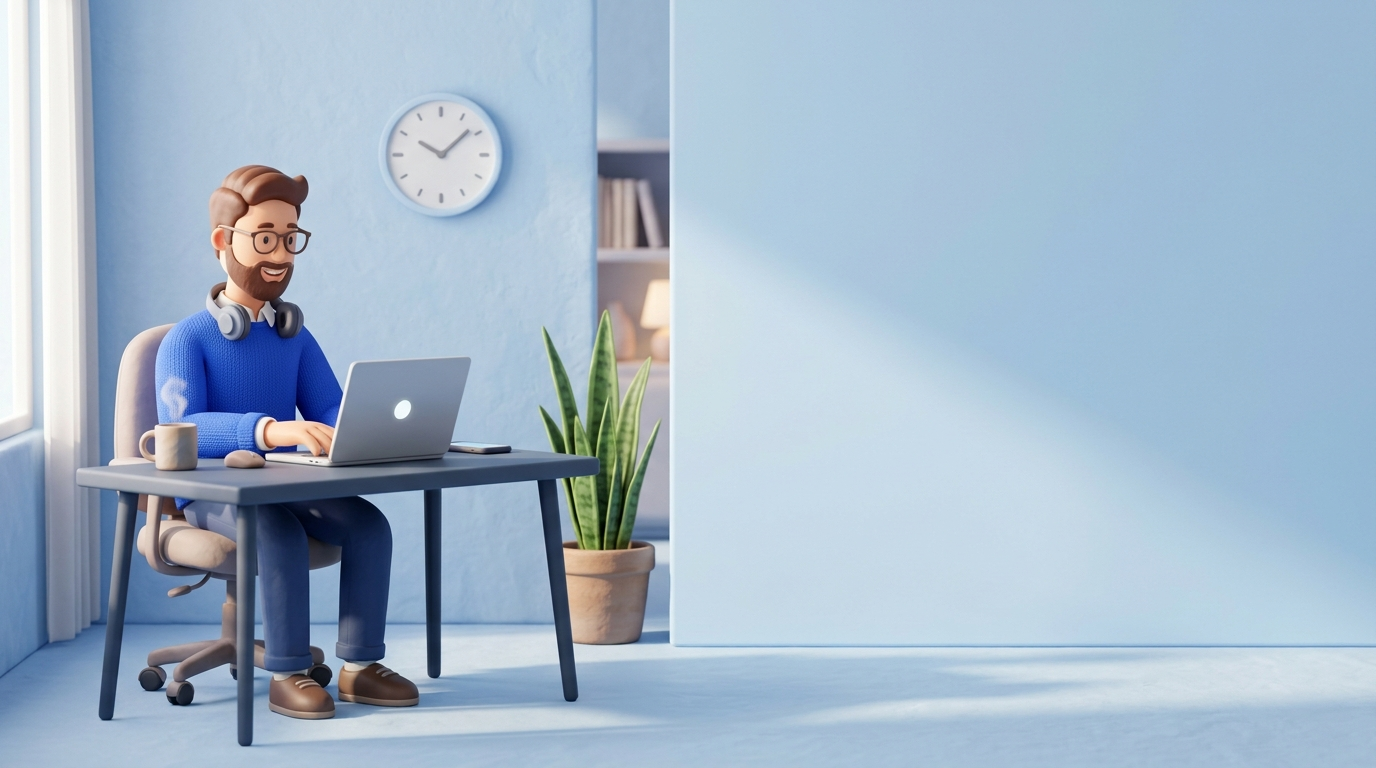
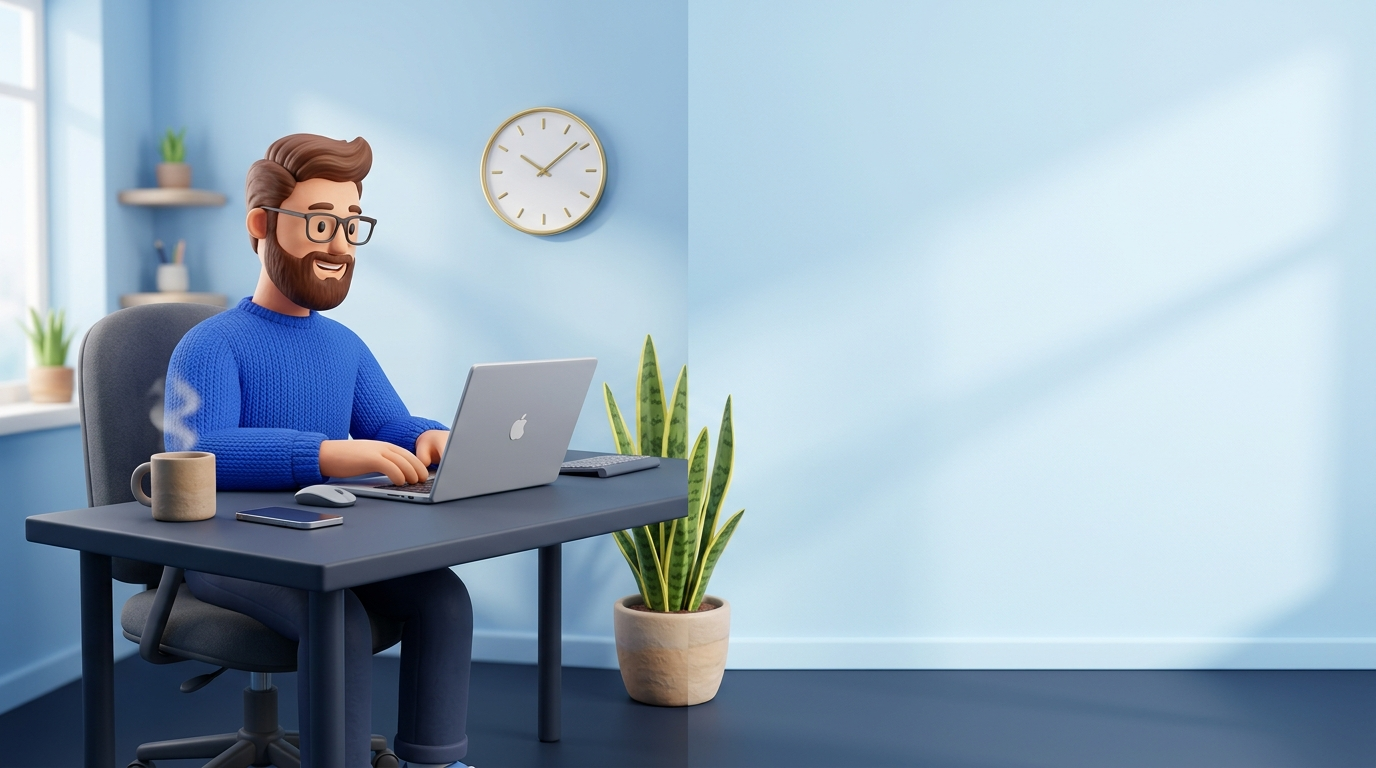
Upgrade Login page to full-screen ultra-HQ 3D background with floating card structure

diff --git a/src/app/login/page.tsx b/src/app/login/page.tsx
@@ -69,160 +69,153 @@ export default function LoginPage() {
   };
 
   return (
-    <main className="min-h-screen w-full bg-[#d6e5f7] dark:bg-slate-950 flex items-center justify-center p-3 sm:p-6 lg:p-10 font-sans">
-      {/* Outer Tablet Frame Matching Exact Reference UI/UX */}
-      <div className="relative w-full max-w-6xl bg-[#1a2333] p-3 sm:p-4 md:p-5 rounded-[36px] sm:rounded-[48px] shadow-[0_30px_90px_-15px_rgba(15,23,42,0.4)] border border-slate-700/60 overflow-hidden">
+    <main className="min-h-screen w-full relative overflow-hidden bg-[#9ec4e8] dark:bg-slate-950 flex items-center justify-center lg:justify-end p-4 sm:p-6 lg:p-12 xl:pr-24 font-sans">
+      {/* Full-Screen 3D Workspace Scene (No artificial frames or black bezels) */}
+      <div className="absolute inset-0 z-0">
+        <Image 
+          src="/login_scene_bg.jpg" 
+          alt="Support Workspace Scene" 
+          fill
+          priority
+          className="object-cover object-left md:object-center select-none pointer-events-none"
+          sizes="100vw"
+        />
+        {/* Soft Mobile Darkening Overlay to ensure text readability */}
+        <div className="absolute inset-0 bg-slate-900/30 backdrop-blur-[2px] lg:hidden pointer-events-none" />
+      </div>
+
+      {/* Floating White Login Card (Exact UI Structure & Styling matching Reference Design) */}
+      <div className="relative z-10 w-full max-w-[430px] bg-white/95 dark:bg-slate-900/95 backdrop-blur-2xl rounded-[36px] sm:rounded-[44px] p-8 sm:p-11 shadow-[0_25px_70px_rgba(15,23,42,0.22)] border border-white/80 dark:border-slate-800/90 flex flex-col justify-between animate-in fade-in zoom-in-95 duration-300">
         
-        {/* Full Display Screen Canvas */}
-        <div className="relative w-full min-h-[580px] sm:min-h-[640px] lg:min-h-[680px] rounded-[28px] sm:rounded-[40px] overflow-hidden shadow-inner flex items-center justify-center lg:justify-end p-4 sm:p-8 lg:p-12">
-          
-          {/* Full Screen 3D Workspace Scene Background */}
-          <Image 
-            src="/login_scene_bg.jpg" 
-            alt="Support Specialist Workspace Scene" 
-            fill
-            priority
-            className="object-cover object-left md:object-center select-none pointer-events-none"
-            sizes="(max-width: 1280px) 100vw, 1200px"
-          />
-
-          {/* Subtle Ambient Vignette & Shadow Overlay */}
-          <div className="absolute inset-0 bg-gradient-to-t from-slate-900/20 via-transparent to-transparent lg:hidden pointer-events-none" />
-
-          {/* Floating Sign-In Card (Exact Replica of Reference Design with Blue Theme) */}
-          <div className="relative z-10 w-full max-w-[410px] bg-white/95 dark:bg-slate-900/95 backdrop-blur-2xl rounded-[32px] sm:rounded-[36px] p-7 sm:p-9 shadow-[0_25px_60px_-15px_rgba(15,23,42,0.3)] border border-white/60 dark:border-slate-800/80 flex flex-col justify-between animate-in fade-in zoom-in-95 duration-300">
-            
-            <div>
-              {/* Brand Logo Header */}
-              <div className="flex items-center justify-center gap-2 mb-6">
-                <div className="w-8 h-8 bg-blue-600 rounded-xl flex items-center justify-center shadow-md shadow-blue-500/25">
-                  <Ticket className="w-4.5 h-4.5 text-white" />
-                </div>
-                <span className="text-lg font-black text-slate-900 dark:text-white tracking-tight">
-                  HelpDesk
-                </span>
-              </div>
-
-              {/* Title & Subtitle */}
-              <div className="text-center space-y-1.5 mb-7">
-                <h1 className="text-2xl sm:text-3xl font-black text-slate-900 dark:text-white tracking-tight">
-                  Log in to account
-                </h1>
-                <p className="text-xs sm:text-sm text-slate-500 dark:text-slate-400 font-medium">
-                  Enter your credentials to access your support dashboard.
-                </p>
-              </div>
-
-              {/* Error Alert */}
-              {error && (
-                <div className="mb-5 p-3.5 bg-rose-50 dark:bg-rose-950/40 border border-rose-200 dark:border-rose-800/50 rounded-2xl flex items-start gap-3 animate-in fade-in duration-200">
-                  <AlertCircle className="w-4 h-4 text-rose-600 dark:text-rose-400 shrink-0 mt-0.5" />
-                  <p className="text-xs font-semibold text-rose-700 dark:text-rose-300 leading-relaxed">
-                    {error}
-                  </p>
-                </div>
-              )}
-
-              {/* Form Inputs */}
-              <form onSubmit={handleSubmit(onSubmit)} className="space-y-4" noValidate>
-                {/* Email Address Input */}
-                <div>
-                  <input
-                    id="email"
-                    type="email"
-                    {...register('email')}
-                    className={`w-full h-12 px-4 bg-slate-50/80 dark:bg-slate-800/60 border ${
-                      errors.email 
-                        ? 'border-rose-400 focus:ring-rose-500/20 focus:border-rose-500' 
-                        : 'border-slate-200 dark:border-slate-700/80 focus:ring-blue-600/20 focus:border-blue-600'
-                    } rounded-2xl text-sm font-medium focus:outline-none focus:ring-4 transition-all text-slate-900 dark:text-white placeholder:text-slate-400 shadow-sm`}
-                    placeholder="Email address"
-                  />
-                  {errors.email && (
-                    <p className="text-rose-500 text-[11px] font-bold mt-1.5 ml-2">{errors.email.message}</p>
-                  )}
-                </div>
-
-                {/* Password Input with Show/Hide Toggle */}
-                <div>
-                  <div className="relative">
-                    <input
-                      id="password"
-                      type={showPassword ? "text" : "password"}
-                      {...register('password')}
-                      className={`w-full h-12 pl-4 pr-11 bg-slate-50/80 dark:bg-slate-800/60 border ${
-                        errors.password 
-                          ? 'border-rose-400 focus:ring-rose-500/20 focus:border-rose-500' 
-                          : 'border-slate-200 dark:border-slate-700/80 focus:ring-blue-600/20 focus:border-blue-600'
-                      } rounded-2xl text-sm font-medium focus:outline-none focus:ring-4 transition-all text-slate-900 dark:text-white placeholder:text-slate-400 shadow-sm`}
-                      placeholder="Password"
-                    />
-                    <button
-                      type="button"
-                      onClick={() => setShowPassword(!showPassword)}
-                      className="absolute right-3.5 top-1/2 -translate-y-1/2 text-slate-400 hover:text-slate-600 dark:hover:text-slate-200 transition-colors p-1"
-                      aria-label={showPassword ? "Hide password" : "Show password"}
-                    >
-                      {showPassword ? <EyeOff className="w-4 h-4" /> : <Eye className="w-4 h-4" />}
-                    </button>
-                  </div>
-                  {errors.password && (
-                    <p className="text-rose-500 text-[11px] font-bold mt-1.5 ml-2">{errors.password.message}</p>
-                  )}
-                </div>
-
-                {/* Remember Me & Forgot Password Row */}
-                <div className="flex items-center justify-between pt-0.5 px-1 text-xs">
-                  <button 
-                    type="button"
-                    onClick={() => setValue('rememberMe', !rememberMe, { shouldValidate: true })}
-                    className="flex items-center gap-2 text-slate-600 dark:text-slate-400 hover:text-slate-900 dark:hover:text-slate-200 transition-colors select-none font-medium"
-                  >
-                    {rememberMe ? (
-                      <CheckSquare className="w-4 h-4 text-blue-600" />
-                    ) : (
-                      <Square className="w-4 h-4 text-slate-400" />
-                    )}
-                    <span>Remember me</span>
-                  </button>
-
-                  <Link 
-                    href="/forgot-password"
-                    className="font-bold text-blue-600 dark:text-blue-400 hover:underline transition-all"
-                  >
-                    Forgot password?
-                  </Link>
-                </div>
-
-                {/* Submit Action Button */}
-                <div className="pt-2">
-                  <button
-                    type="submit"
-                    disabled={isSubmitting}
-                    className="w-full h-12 bg-blue-600 hover:bg-blue-700 active:scale-[0.98] text-white rounded-2xl font-bold text-sm transition-all shadow-md shadow-blue-600/25 disabled:opacity-60 flex items-center justify-center gap-2 cursor-pointer"
-                  >
-                    {isSubmitting ? (
-                      <>
-                        <Loader2 className="w-4 h-4 animate-spin" />
-                        <span>Signing in...</span>
-                      </>
-                    ) : (
-                      <span>Log in</span>
-                    )}
-                  </button>
-                </div>
-              </form>
+        <div>
+          {/* Logo Header */}
+          <div className="flex items-center justify-center gap-2.5 mb-7">
+            <div className="w-8 h-8 bg-blue-600 rounded-xl flex items-center justify-center shadow-md shadow-blue-500/25">
+              <Ticket className="w-4.5 h-4.5 text-white" />
             </div>
+            <span className="text-xl font-black text-slate-900 dark:text-white tracking-tight">
+              HelpDesk
+            </span>
+          </div>
 
-            {/* Bottom Compliance & Access Note */}
-            <div className="pt-6 text-center">
-              <p className="text-[11px] text-slate-400 dark:text-slate-500 leading-relaxed font-medium">
-                Authorized Agent & Administrator Access Only · Support OS
+          {/* Headline & Subtitle */}
+          <div className="text-center space-y-1.5 mb-8">
+            <h1 className="text-2xl sm:text-3xl font-black text-slate-900 dark:text-white tracking-tight">
+              Log in to account
+            </h1>
+            <p className="text-xs sm:text-sm text-slate-500 dark:text-slate-400 font-medium">
+              Enter your credentials to access your support workspace.
+            </p>
+          </div>
+
+          {/* Error Message */}
+          {error && (
+            <div className="mb-5 p-3.5 bg-rose-50 dark:bg-rose-950/40 border border-rose-200 dark:border-rose-800/50 rounded-2xl flex items-start gap-3 animate-in fade-in duration-200">
+              <AlertCircle className="w-4 h-4 text-rose-600 dark:text-rose-400 shrink-0 mt-0.5" />
+              <p className="text-xs font-semibold text-rose-700 dark:text-rose-300 leading-relaxed">
+                {error}
               </p>
             </div>
+          )}
 
-          </div>
+          {/* Form Inputs */}
+          <form onSubmit={handleSubmit(onSubmit)} className="space-y-4" noValidate>
+            {/* Email Address */}
+            <div>
+              <input
+                id="email"
+                type="email"
+                {...register('email')}
+                className={`w-full h-12 sm:h-13 px-4 sm:px-5 bg-slate-50/90 dark:bg-slate-800/60 border ${
+                  errors.email 
+                    ? 'border-rose-400 focus:ring-rose-500/20 focus:border-rose-500' 
+                    : 'border-slate-200 dark:border-slate-700/80 focus:ring-blue-600/20 focus:border-blue-600'
+                } rounded-[18px] text-sm font-medium focus:outline-none focus:ring-4 transition-all text-slate-900 dark:text-white placeholder:text-slate-400 shadow-sm`}
+                placeholder="Email address"
+              />
+              {errors.email && (
+                <p className="text-rose-500 text-[11px] font-bold mt-1.5 ml-2.5">{errors.email.message}</p>
+              )}
+            </div>
+
+            {/* Password */}
+            <div>
+              <div className="relative">
+                <input
+                  id="password"
+                  type={showPassword ? "text" : "password"}
+                  {...register('password')}
+                  className={`w-full h-12 sm:h-13 pl-4 sm:pl-5 pr-12 bg-slate-50/90 dark:bg-slate-800/60 border ${
+                    errors.password 
+                      ? 'border-rose-400 focus:ring-rose-500/20 focus:border-rose-500' 
+                      : 'border-slate-200 dark:border-slate-700/80 focus:ring-blue-600/20 focus:border-blue-600'
+                  } rounded-[18px] text-sm font-medium focus:outline-none focus:ring-4 transition-all text-slate-900 dark:text-white placeholder:text-slate-400 shadow-sm`}
+                  placeholder="Password"
+                />
+                <button
+                  type="button"
+                  onClick={() => setShowPassword(!showPassword)}
+                  className="absolute right-3.5 top-1/2 -translate-y-1/2 text-slate-400 hover:text-slate-600 dark:hover:text-slate-200 transition-colors p-1"
+                  aria-label={showPassword ? "Hide password" : "Show password"}
+                >
+                  {showPassword ? <EyeOff className="w-4 h-4" /> : <Eye className="w-4 h-4" />}
+                </button>
+              </div>
+              {errors.password && (
+                <p className="text-rose-500 text-[11px] font-bold mt-1.5 ml-2.5">{errors.password.message}</p>
+              )}
+            </div>
+
+            {/* Remember Me & Forgot Password Row */}
+            <div className="flex items-center justify-between pt-0.5 px-1 text-xs">
+              <button 
+                type="button"
+                onClick={() => setValue('rememberMe', !rememberMe, { shouldValidate: true })}
+                className="flex items-center gap-2 text-slate-600 dark:text-slate-400 hover:text-slate-900 dark:hover:text-slate-200 transition-colors select-none font-medium"
+              >
+                {rememberMe ? (
+                  <CheckSquare className="w-4 h-4 text-blue-600" />
+                ) : (
+                  <Square className="w-4 h-4 text-slate-400" />
+                )}
+                <span>Remember me</span>
+              </button>
+
+              <Link 
+                href="/forgot-password"
+                className="font-bold text-blue-600 dark:text-blue-400 hover:underline transition-all"
+              >
+                Forgot password?
+              </Link>
+            </div>
+
+            {/* Submit Action Button */}
+            <div className="pt-2">
+              <button
+                type="submit"
+                disabled={isSubmitting}
+                className="w-full h-12 sm:h-13 bg-blue-600 hover:bg-blue-700 active:scale-[0.98] text-white rounded-[18px] font-bold text-sm sm:text-base transition-all shadow-md shadow-blue-600/25 disabled:opacity-60 flex items-center justify-center gap-2 cursor-pointer"
+              >
+                {isSubmitting ? (
+                  <>
+                    <Loader2 className="w-4 h-4 animate-spin" />
+                    <span>Signing in...</span>
+                  </>
+                ) : (
+                  <span>Log in</span>
+                )}
+              </button>
+            </div>
+          </form>
         </div>
+
+        {/* Bottom Compliance & Security Note */}
+        <div className="pt-7 text-center">
+          <p className="text-[11px] text-slate-400 dark:text-slate-500 leading-relaxed font-medium">
+            Authorized Agent & Administrator Access Only · Support OS
+          </p>
+        </div>
+
       </div>
     </main>
   );
